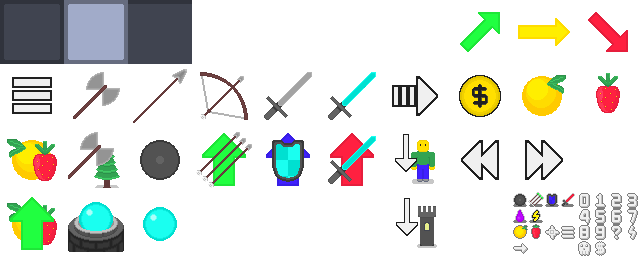
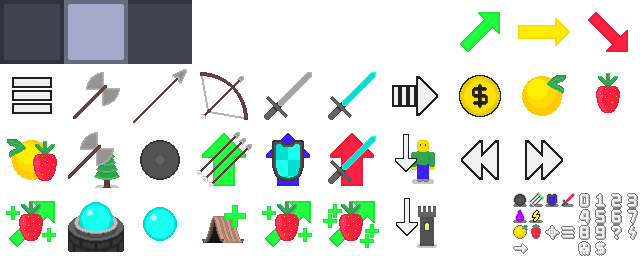
added healing tents

Changed region(s): [[0.3125, 0.7812, 0.5938, 0.9688], [0.0, 0.7812, 0.0938, 1.0]]

diff --git a/src/main.cpp b/src/main.cpp
@@ -60,16 +60,16 @@ int main() {
 		{
 			Map& map = game->map;
 
-			const int w = 17;
+			const int w = 24;
 			const int h = 7;
 			const char arr[h][w + 1] = {
-				"------   ggggyyyy",
-				"--rr---  ggggyyyy",
-				"---rbb   gggyyyyy",
-				"rrrrbb#  gggg-yyy",
-				"---rrb   ggggyyyy",
-				"--rr---  ggggyyyy",
-				"------   ggggyyyy"
+				"------   ggggyyy   vvvv ",
+				"--rr---  ggggyyyy  vvvvv",
+				"---rbb   gggyyyy   vvvv ",
+				"rrrrbb#  gggg-yyy  vvvvv",
+				"---rrb   ggggyyy   vvvv ",
+				"--rr---  ggggyyyy  vvvvv",
+				"------   ggggyyy   vvvv "
 			};
 
 			map.empty({ w, h });
@@ -98,6 +98,14 @@ int main() {
 					case 'y':
 						hex->type = Hex::Ground;
 						hex->team = Region::Yellow;
+						break;
+					case 'v':
+						hex->type = Hex::Ground;
+						hex->team = Region::Purple;
+						break;
+					case 'o':
+						hex->type = Hex::Ground;
+						hex->team = Region::Orange;
 						break;
 					case '#':
 						hex->type = Hex::Ground;
@@ -170,6 +178,31 @@ int main() {
 					troop.pos = { 14, 4 };
 					map.setTroop(troop);
 				};
+
+				// tent test
+				{
+					Troop troop;
+					troop.pos = { 20, 2 };
+					troop.type = Troop::Knight;
+					troop.hp = 5;
+					map.setTroop(troop);
+
+					troop.pos = { 20, 4 };
+					troop.type = Troop::Knight;
+					troop.hp = 4;
+					map.setTroop(troop);
+
+					troop.pos = { 22, 3 };
+					troop.type = Troop::Baron;
+					troop.hp = 1;
+					map.setTroop(troop);
+				};
+				{
+					Build build;
+					build.type = Build::Tent;
+					build.pos = { 21, 3 };
+					map.setBuild(build);
+				};
 			};
 
 			map.at({ 3, 3 })->region()->money = 11;
@@ -180,6 +213,8 @@ int main() {
 			map.at({ 9, 3 })->region()->peach = 100;
 
 			map.at({ 14, 3 })->region()->money = 100;
+			map.at({ 21, 3 })->region()->money = 1000;
+			map.at({ 21, 3 })->region()->berry = 12;
 		};
 		layer_map->add(game);
 

diff --git a/src/game/logic/build_logic.cpp b/src/game/logic/build_logic.cpp
@@ -3,28 +3,26 @@
 
 namespace logic {
 	/// Building buying cost.
-	const int build_cost[Build::Count] = { 0, 4, 80, 15, 35, 95 };
+	const int build_cost[Build::Count] = { 0, 4, 80, 15, 35, 95, 10 };
 
 	/// Extra farm cost per farm built.
 	const int farm_cost_inc = 1;
 
 	/// Building destruction bonus.
-	const int build_bonus[Build::Count] = { 30, 5, 8, 6, 16, 43 };
+	const int build_bonus[Build::Count] = { 30, 5, 8, 6, 16, 43, 8 };
 
 	/// Building upkeep cost.
-	const int build_upkeep[Build::Count] = { 0, -4, 0, 1, 6, 29 };
+	const int build_upkeep[Build::Count] = { 0, -4, 0, 2, 8, 29, 4 };
 
 	/// Weakest troop that can damage the building.
 	const Troop::Type build_level[Build::Count] = {
 		Troop::Spearman, Troop::Lumberjack, Troop::Spearman,
-		Troop::Archer, Troop::Baron, Troop::Knight
+		Troop::Archer, Troop::Baron, Troop::Knight, Troop::Spearman
 	};
 
 	// skill array
 	const SkillArray build_skills[Build::Count] = {
-		/* castle */ { SkillArray::L10, {
-			&SkillList::heal
-		} },
+		/* castle */ { SkillArray::L00, {} },
 		/* farm   */ { SkillArray::L01, {
 			&SkillList::withdraw
 		} },

diff --git a/include/game/skill.hpp b/include/game/skill.hpp
@@ -68,13 +68,15 @@ struct Skill {
 	/// Skill action condition check type.
 	///
 	/// @param state Skill state.
+	/// @param map Map reference.
 	/// @param tile Skill target tile.
-	using Condition = std::function<bool(const SkillState& state, const HexRef& tile)>;
+	using Condition = std::function<bool
+		(const SkillState& state, Map& map, const HexRef& tile)>;
 
 	/// Skill execution condition.
 	///
 	/// By default, uses built-in skill cost fields.
-	Condition condition = [this](const SkillState& state, const HexRef&)
+	Condition condition = [this](const SkillState& state, Map&, const HexRef&)
 		{ return state.with(resource) >= cost(state); };
 
 	/// Selection tile spreader generator.

diff --git a/src/game/game.cpp b/src/game/game.cpp
@@ -420,7 +420,7 @@ static void _attach_action(
 ) {
 	// set button validation logic
 	button->setCheck([=]() {
-		return skill->condition(game->state, game->map.atref(game->last()));
+		return skill->condition(game->state, game->map, game->map.atref(game->last()));
 	});
 
 	// set button press / release logic
@@ -537,7 +537,7 @@ static void _construct_menu(
 				button->disable(Values::dead_digit);
 
 			// disable if skill cannot be executed
-			else if (!data.skills[idx]->condition(game->state, tile))
+			else if (!data.skills[idx]->condition(game->state, game->map, tile))
 				button->disable();
 		};
 

diff --git a/src/game/values/skill_values.cpp b/src/game/values/skill_values.cpp
@@ -19,12 +19,14 @@ namespace Values {
 
 		coords(0, 2), // harvest
 		coords(1, 2), // cut
+		coords(3, 3), // tent
 		coords(2, 2), // defend
 		coords(3, 2), // range
 		coords(4, 2), // defense
 		coords(5, 2), // offense
 
-		coords(0, 3), // heal
+		coords(4, 3), // heal 1
+		coords(5, 3), // heal 2
 		coords(1, 3), // stun
 	};
 
@@ -46,12 +48,14 @@ namespace Values {
 
 		"@!skill.harvest",
 		"@!skill.cut",
+		"@!skill.tent",
 		"@!skill.defend",
 		"@!skill.range",
 		"@!skill.defense",
 		"@!skill.offense",
 
-		"@!skill.heal",
+		"@!skill.heal_1",
+		"@!skill.heal_2",
 		"@!skill.stun",
 	};
 

diff --git a/src/game/map.cpp b/src/game/map.cpp
@@ -150,7 +150,7 @@ void Map::removeEntity(Hex* hex) {
 		// update region income
 		if (hex->region()) {
 			hex->region()->income += logic::build_upkeep[hex->build->type];
-			hex->region()->farms--;
+			if (hex->build->type == Build::Farm) hex->region()->farms--;
 		};
 
 		// delete building
@@ -194,7 +194,7 @@ void Map::setBuild(const Build& build) {
 		// update region income
 		if (hex->region()) {
 			hex->region()->income -= logic::build_upkeep[build.type];
-			hex->region()->farms++;
+			if (build.type == Build::Farm) hex->region()->farms++;
 		};
 	};
 };

diff --git a/include/game/logic/skill_helper.hpp b/include/game/logic/skill_helper.hpp
@@ -27,8 +27,13 @@ namespace skillf {
 	/// Allows selection only if a tile is empty.
 	extern const Spread::Check emptyPass;
 
-	/// Generates region audit spreader effect function.
+	/// Generates region join effect function.
 	///
 	/// @param region Target region.
-	Spread::Effect regionAuditEffect(const Regions::Ref& region);
+	Spread::Effect regionJoin(const Regions::Ref& region);
+
+	/// Generates a same region spreader for empty tiles.
+	/// 
+	/// @param region Target region.
+	Spread::Check sameRegionEmptyHop(const Regions::Ref& region);
 };

diff --git a/include/game/logic/skill_types.hpp b/include/game/logic/skill_types.hpp
@@ -20,12 +20,16 @@ namespace Skills {
 
 		Harvest,      /// (Farmer) Fruit harvest.
 		TreeCut,      /// (Lumberjack) Plant cut down.
+
+		TentSet,      /// (Spearman) Tent setup.
 		Shield,       /// (Spearman) Spearman shield.
+
 		RangeBoost,   /// (Archer) Range boost.
 		DefenseBoost, /// (Baron) Defense boost.
 		OffenseBoost, /// (Knight) Attack boost.
 
-		Heal,         /// (Castle) Heal troops.
+		Heal_1,       /// (Tent) 1 HP troop heal.
+		Heal_2,       /// (Tent) 2 HP troop heal.
 		Stun,         /// (Beacon) Stun troops.
 		Count
 	};

diff --git a/src/game/logic/skill_helper.cpp b/src/game/logic/skill_helper.cpp
@@ -33,9 +33,16 @@ namespace skillf {
 	};
 
 	/// Generates region audit spreader effect function.
-	Spread::Effect regionAuditEffect(const Regions::Ref& ref) {
+	Spread::Effect regionJoin(const Regions::Ref& ref) {
 		return [&ref](const Spread::Tile& tile) {
 			tile.hex->join(ref);
+		};
+	};
+
+	/// Generates a same region spreader for empty tiles.
+	Spread::Check sameRegionEmptyHop(const Regions::Ref& region) {
+		return [&region](const Spread::Tile& tile) {
+			return tile.hex->region() == region && !tile.hex->entity();
 		};
 	};
 };

diff --git a/src/game/values/build_values.cpp b/src/game/values/build_values.cpp
@@ -9,6 +9,7 @@ namespace Values {
 		coords(3, 2), // tower
 		coords(4, 2), // beacon
 		coords(5, 2), // fort
+		coords(2, 2), // tent
 	};
 
 	// name array
@@ -19,6 +20,7 @@ namespace Values {
 		"@!build.tower",
 		"@!build.beacon",
 		"@!build.fort",
+		"@!build.tent"
 	};
 
 	/// Buildings available in the region shop.

diff --git a/src/game/region.cpp b/src/game/region.cpp
@@ -73,7 +73,7 @@ void Regions::enumerate(Map* map) {
 					return tile.hex->team == team
 						&& tile.hex->solid();
 				},
-				.effect = skillf::regionAuditEffect(region),
+				.effect = skillf::regionJoin(region),
 				.imm = true
 			};
 			spread.apply(*map, { x, y });

diff --git a/include/game/build.hpp b/include/game/build.hpp
@@ -14,6 +14,7 @@ struct Build : Entity {
 		Tower,  /// Watchtower (basic defense).
 		Beacon, /// Beacon (stunning defense).
 		Fort,   /// Fortress (strong defense).
+		Tent,   /// Tent (troop healing station).
 
 		Count   /// Building count.
 	} type = Castle;
